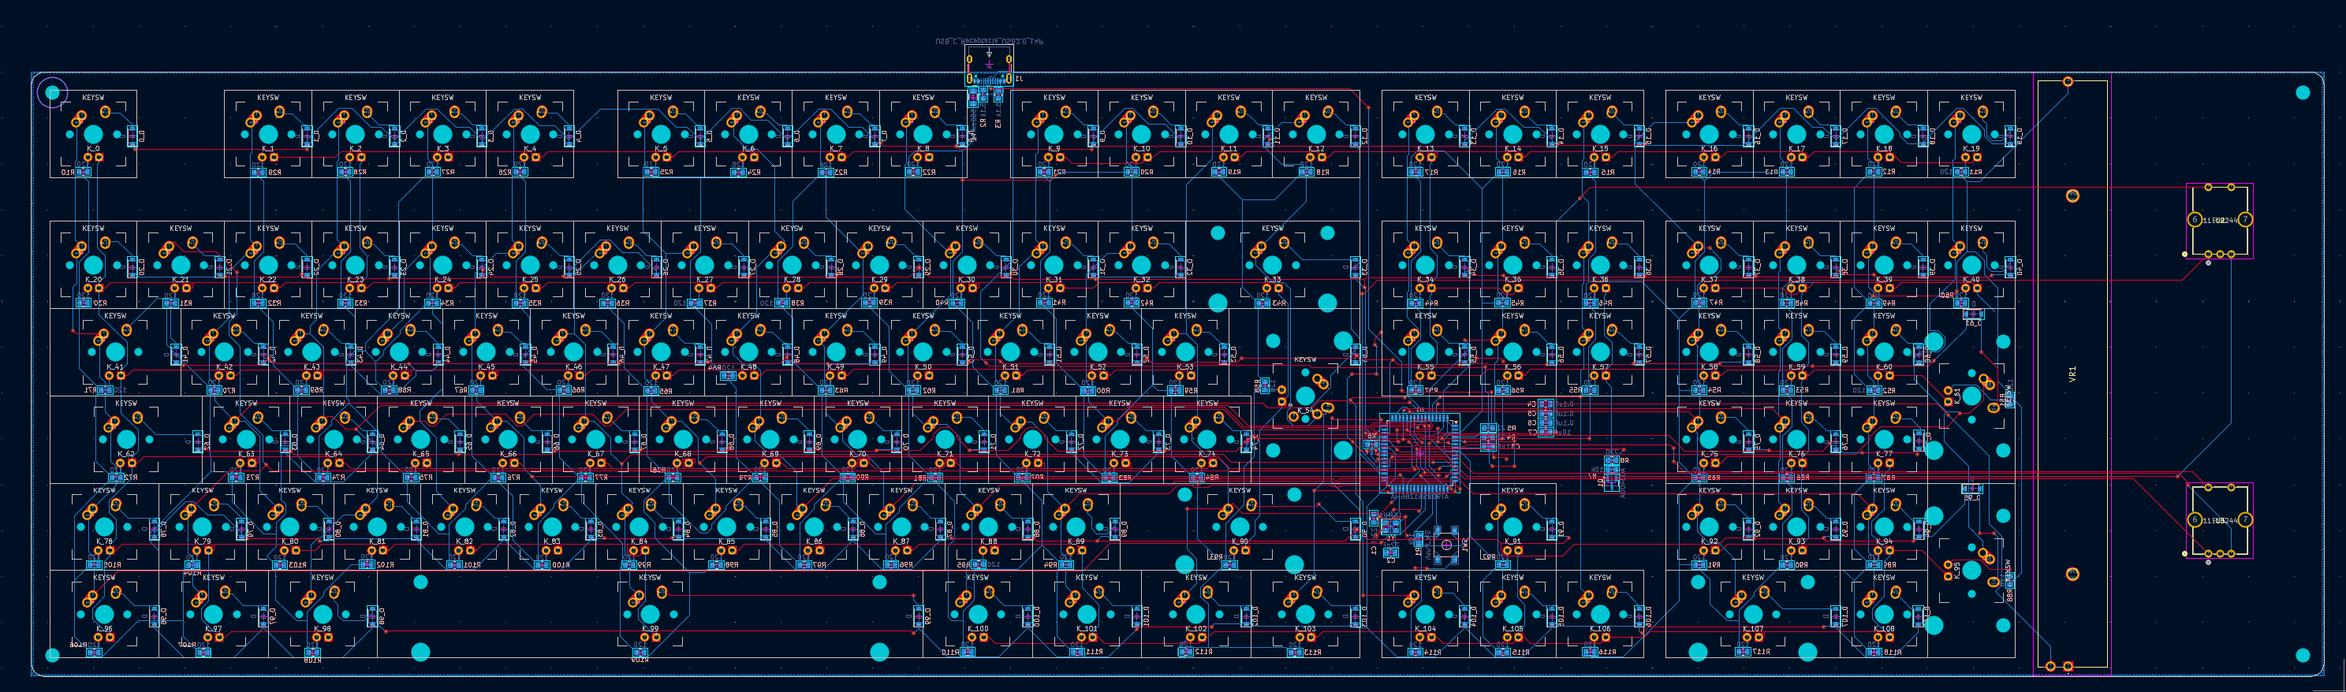
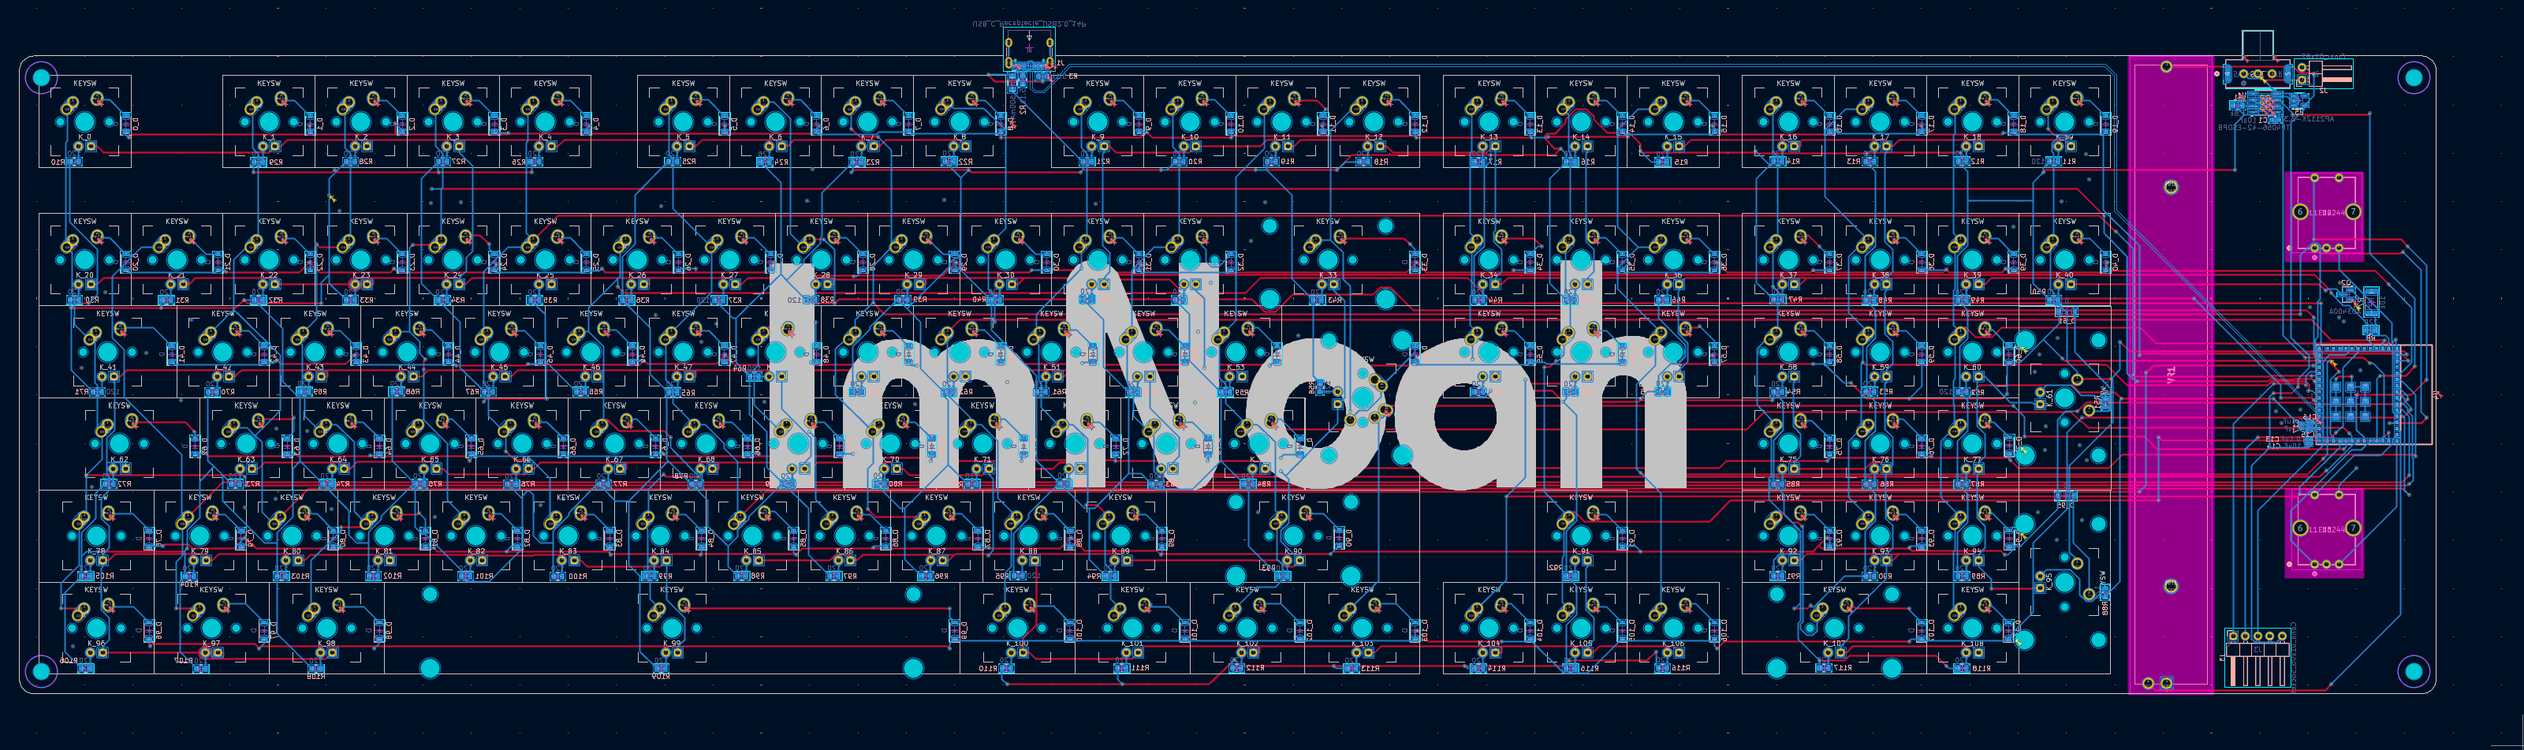
Update PCB

diff --git a/README.md b/README.md
@@ -20,35 +20,37 @@ QMK firmware + configuration must be flashed using the macpad.hex file. The rese
 
 ## BOM
 
-| Item name         | Item price | Item use                                               | URL                                                                   |
-| ----------------- | ---------- | ------------------------------------------------------ | --------------------------------------------------------------------- |
-| PCB               | $34        | PCB manufacture                                        | jlcpcb.com                                                            |
-| PCB components    | $23.93     | Assemble controller on keyboard + rotary encoder/fader | jlcpcb.com                                                            |
-| PCB Assembly      | $30        | Assemble PCB                                           | jlcpcb.com                                                            |
-| Keyboard switches | $30        | Make the keyboard keyboard                             | [Keyswitches](https://www.keychron.uk/products/keychron-super-switch) |
-| Black fillament   | $24        | Print the case                                         | https://uk.store.bambulab.com/products/petg-hf?id=42010450329660      |
-| Total:            | $141.93    |                                                        |                                                                       |
+| Item name         | Item price | Item use                                               | URL                                                                    |
+| ----------------- | ---------- | ------------------------------------------------------ | ---------------------------------------------------------------------- |
+| PCB               | $34        | PCB manufacture                                        | jlcpcb.com                                                             |
+| PCB components    | $13        | Assemble controller on keyboard + rotary encoder/fader | jlcpcb.com                                                             |
+| PCB Assembly      | $30        | Assemble PCB                                           | jlcpcb.com                                                             |
+| Keyboard switches | $30        | Make the keyboard keyboard                             | [Keyswitches](https://www.keychron.uk/products/keychron-super-switch)  |
+| Black fillament   | $24        | Print the case                                         | https://uk.store.bambulab.com/products/petg-hf?id=42010450329660       |
+| Battery           | $10.78     | Battery power                                          | https://www.amazon.co.uk/EEMB-Battery-rechargeable-Connector-Certified |
+| Total:            | $142.71    |                                                        |                                                                        |
 
 ## PCB component breakdown
 
-| Designator                                                                                           | Quantity | Value                       | Footprint                               | Package | MPN                | DNP | Mount_Type | Description                                                                            | Price    | Total    | URL                                                                       |
-| ---------------------------------------------------------------------------------------------------- | -------- | --------------------------- | --------------------------------------- | ------- | ------------------ | --- | ---------- | -------------------------------------------------------------------------------------- | -------- | -------- | ------------------------------------------------------------------------- |
-| C1, C2                                                                                               | 2        | 22pF                        | C_0805_2012Metric                       |         |                    |     | smt        |                                                                                        | $0.0011  | $0.0022  | https://jlcpcb.com/partdetail/1907-0402CG220J500NT/C1555                  |
-| C3                                                                                                   | 1        | 1uF                         | C_0805_2012Metric                       |         |                    |     | smt        |                                                                                        | $0.0032  | $0.0064  | https://jlcpcb.com/partdetail/1944-CL10A105KO8NNNC/C1592                  |
-| C4, C5, C6                                                                                           | 3        | 0.1uF                       | C_0805_2012Metric                       |         |                    |     | smt        |                                                                                        | $0.0011  | $0.0033  | https://jlcpcb.com/partdetail/1877-CL05B104KO5NNNC/C1525                  |
-| C7                                                                                                   | 1        | 10uF                        | C_0805_2012Metric                       |         |                    |     | smt        |                                                                                        | $0.0028  | $0.0028  | https://jlcpcb.com/partdetail/2043-CL10A106MQ8NNNC/C1691                  |
-| D_0, D_1, D_10, D_100, D_101, D_102, D_103, D_104, D_105, D_106, D_107, D_108, D_11, D_12, D_13, D_14, D_15, D_16, D_17, D_18, D_19, D_2, D_20, D_21, D_22, D_23, D_24, D_25, D_26, D_27, D_28, D_29, D_3, D_30, D_31, D_32, D_33, D_34, D_35, D_36, D_37, D_38, D_39, D_4, D_40, D_41, D_42, D_43, D_44, D_45, D_46, D_47, D_48, D_49, D_5, D_50, D_51, D_52, D_53, D_54, D_55, D_56, D_57, D_58, D_59, D_6, D_60, D_61, D_62, D_63, D_64, D_65, D_66, D_67, D_68, D_69, D_7, D_70, D_71, D_72, D_73, D_74, D_75, D_76, D_77, D_78, D_79, D_8, D_80, D_81, D_82, D_83, D_84, D_85, D_86, D_87, D_88, D_89, D_9, D_90, D_91, D_92, D_93, D_94, D_95, D_96, D_97, D_98, D_99 | 109      | D                           | D_SOD-123                               |         |                    |     | smt        |                                                                                        | $0.0052  | $0.57    | https://jlcpcb.com/partdetail/Shunye-ES1D_SOD_123FL/C7370889              |
-| F1                                                                                                   | 1        | 500mA                       | Fuse_1206_3216Metric                    |         |                    |     | smt        |                                                                                        | $0.0365  | $0.0365  | https://jlcpcb.com/partdetail/JlcpcbAssembly-FUSE/C9900021114             |
-| J1                                                                                                   | 1        | USB_C_Receptacle_USB2.0_14P | USB_C_Receptacle_HCTL_HC-TYPE-C-16P-01A |         |                    |     | smt        | USB 2.0-only 14P Type-C Receptacle connector                                           | $0.0365  | $0.0365  | https://jlcpcb.com/partdetail/JlcpcbAssembly-14P/C9900117666              |
-| Q1                                                                                                   | 1        | AO3400A                     | SOT-23                                  |         |                    |     | smt        | 30V Vds, 5.7A Id, N-Channel MOSFET, SOT-23                                             | $0.0428  | $0.0428  | https://jlcpcb.com/partdetail/Alpha_OmegaSemicon-AO3400A/C20917           |
-| R1, R6, R7                                                                                           | 3        | 10k                         | R_0805_2012Metric                       |         |                    |     | smt        | Resistor                                                                               | $0.0013  | $0.0039  | https://jlcpcb.com/partdetail/1841-1206W4J0103T5E/C1489                   |
-| R10, R100, R101, R102, R103, R104, R105, R106, R107, R108, R109, R11, R110, R111, R112, R113, R114, R115, R116, R117, R118, R12, R13, R14, R15, R16, R17, R18, R19, R20, R21, R22, R23, R24, R25, R26, R27, R28, R29, R30, R31, R32, R33, R34, R35, R36, R37, R38, R39, R40, R41, R42, R43, R44, R45, R46, R47, R48, R49, R50, R51, R52, R53, R54, R55, R56, R57, R58, R59, R60, R61, R62, R63, R64, R65, R66, R67, R68, R69, R70, R71, R72, R73, R74, R75, R76, R77, R78, R79, R80, R81, R82, R83, R84, R85, R86, R87, R88, R89, R90, R91, R92, R93, R94, R95, R96, R97, R98, R99 | 109      | 120                         | R_0805_2012Metric                       |         |                    |     | smt        | Resistor                                                                               | $0.0008  | $0.0872  | https://jlcpcb.com/partdetail/23514-0603WAF1200T5E/C22787                 |
-| R2, R3                                                                                               | 2        | 5.1k                        | R_0805_2012Metric                       |         |                    |     | smt        |                                                                                        | $0.0007  | $0.0014  | https://jlcpcb.com/partdetail/Yageo-RC0603JR075K1L/C14677                 |
-| R4, R5                                                                                               | 2        | 22                          | R_0805_2012Metric                       |         |                    |     | smt        |                                                                                        | $0.0005  | $0.001   | https://jlcpcb.com/partdetail/1555-0603WAJ0220T5E/C1203                   |
-| R8                                                                                                   | 1        | 220                         | R_0805_2012Metric                       |         |                    |     | smt        | Resistor                                                                               | $0.0004  | $0.0004  | https://jlcpcb.com/partdetail/1463-RC02W221JT/C1111                       |
-| SW1                                                                                                  | 1        | SW_Push                     | SKQG-1155865                            |         |                    |     | smt        |                                                                                        | $0.2385  | $0.2385  | https://jlcpcb.com/partdetail/Panasonic-EVQQ2B03W/C79178                  |
-| U1                                                                                                   | 1        | AT90USB1286-A               | TQFP-64_14x14mm_P0.8mm                  |         |                    |     | smt        |                                                                                        | $13.3845 | $13.3845 | https://jlcpcb.com/partdetail/MicrochipTech-AT90USB1286AU/C619147         |
-| U2, U3                                                                                               | 2        | EC11E18244A5                | EC11E18244A5_ALPS                       |         |                    |     | tht        |                                                                                        | $1.9785  | $3.96    | https://jlcpcb.com/partdetail/Alpsalpine-EC11E18244A5/C255515             |
-| VR1                                                                                                  | 1        | PTB0143-2010BPB103          | PTB01432010BPB103                       |         | PTB0143-2010BPB103 |     | tht        | Bourns PTB0143-2010BPB103 1 Gang Slide Carbon Potentiometer, 10k, +/-20%, 0.5W, Linear | $5.5140  | $5.5140  | https://jlcpcb.com/partdetail/Bourns-PTB01432010BPB103/C17183742          |
-| Y1                                                                                                   | 1        | 16MHz                       | Crystal_SMD_3225-4Pin_3.2x2.5mm         |         |                    |     | smt        |                                                                                        | $0.0356  | $0.0356  | https://jlcpcb.com/partdetail/Yxc_CrystalOscillators-X322516MOB4SI/C12668 |
-|                                                                                                      |          |                             |                                         |         |                    |     |            |                                                                                        | Total:   | $23.93   |                                                                           |
+| Designator                                                                                           | Quantity | Value                       | Footprint                               | Package | MPN                | DNP | Mount_Type | Description                                                                            | Price   | Total   | URL                                                                       |
+| ---------------------------------------------------------------------------------------------------- | -------- | --------------------------- | --------------------------------------- | ------- | ------------------ | --- | ---------- | -------------------------------------------------------------------------------------- | ------- | ------- | ------------------------------------------------------------------------- |
+| C1, C2                                                                                               | 2        | 22pF                        | C_0805_2012Metric                       |         |                    |     | smt        |                                                                                        | $0.0011 | $0.0022 | https://jlcpcb.com/partdetail/1907-0402CG220J500NT/C1555                  |
+| C3                                                                                                   | 1        | 1uF                         | C_0805_2012Metric                       |         |                    |     | smt        |                                                                                        | $0.0032 | $0.0064 | https://jlcpcb.com/partdetail/1944-CL10A105KO8NNNC/C1592                  |
+| C4, C5, C6                                                                                           | 3        | 0.1uF                       | C_0805_2012Metric                       |         |                    |     | smt        |                                                                                        | $0.0011 | $0.0033 | https://jlcpcb.com/partdetail/1877-CL05B104KO5NNNC/C1525                  |
+| C7                                                                                                   | 1        | 10uF                        | C_0805_2012Metric                       |         |                    |     | smt        |                                                                                        | $0.0028 | $0.0028 | https://jlcpcb.com/partdetail/2043-CL10A106MQ8NNNC/C1691                  |
+| D_0, D_1, D_10, D_100, D_101, D_102, D_103, D_104, D_105, D_106, D_107, D_108, D_11, D_12, D_13, D_14, D_15, D_16, D_17, D_18, D_19, D_2, D_20, D_21, D_22, D_23, D_24, D_25, D_26, D_27, D_28, D_29, D_3, D_30, D_31, D_32, D_33, D_34, D_35, D_36, D_37, D_38, D_39, D_4, D_40, D_41, D_42, D_43, D_44, D_45, D_46, D_47, D_48, D_49, D_5, D_50, D_51, D_52, D_53, D_54, D_55, D_56, D_57, D_58, D_59, D_6, D_60, D_61, D_62, D_63, D_64, D_65, D_66, D_67, D_68, D_69, D_7, D_70, D_71, D_72, D_73, D_74, D_75, D_76, D_77, D_78, D_79, D_8, D_80, D_81, D_82, D_83, D_84, D_85, D_86, D_87, D_88, D_89, D_9, D_90, D_91, D_92, D_93, D_94, D_95, D_96, D_97, D_98, D_99 | 109      | D                           | D_SOD-123                               |         |                    |     | smt        |                                                                                        | $0.0052 | $0.57   | https://jlcpcb.com/partdetail/Shunye-ES1D_SOD_123FL/C7370889              |
+| F1                                                                                                   | 1        | 500mA                       | Fuse_1206_3216Metric                    |         |                    |     | smt        |                                                                                        | $0.0365 | $0.0365 | https://jlcpcb.com/partdetail/JlcpcbAssembly-FUSE/C9900021114             |
+| J1                                                                                                   | 1        | USB_C_Receptacle_USB2.0_14P | USB_C_Receptacle_HCTL_HC-TYPE-C-16P-01A |         |                    |     | smt        | USB 2.0-only 14P Type-C Receptacle connector                                           | $0.0365 | $0.0365 | https://jlcpcb.com/partdetail/JlcpcbAssembly-14P/C9900117666              |
+| Q1                                                                                                   | 1        | AO3400A                     | SOT-23                                  |         |                    |     | smt        | 30V Vds, 5.7A Id, N-Channel MOSFET, SOT-23                                             | $0.0428 | $0.0428 | https://jlcpcb.com/partdetail/Alpha_OmegaSemicon-AO3400A/C20917           |
+| R1, R6, R7                                                                                           | 3        | 10k                         | R_0805_2012Metric                       |         |                    |     | smt        | Resistor                                                                               | $0.0013 | $0.0039 | https://jlcpcb.com/partdetail/1841-1206W4J0103T5E/C1489                   |
+| R10, R100, R101, R102, R103, R104, R105, R106, R107, R108, R109, R11, R110, R111, R112, R113, R114, R115, R116, R117, R118, R12, R13, R14, R15, R16, R17, R18, R19, R20, R21, R22, R23, R24, R25, R26, R27, R28, R29, R30, R31, R32, R33, R34, R35, R36, R37, R38, R39, R40, R41, R42, R43, R44, R45, R46, R47, R48, R49, R50, R51, R52, R53, R54, R55, R56, R57, R58, R59, R60, R61, R62, R63, R64, R65, R66, R67, R68, R69, R70, R71, R72, R73, R74, R75, R76, R77, R78, R79, R80, R81, R82, R83, R84, R85, R86, R87, R88, R89, R90, R91, R92, R93, R94, R95, R96, R97, R98, R99 | 109      | 120                         | R_0805_2012Metric                       |         |                    |     | smt        | Resistor                                                                               | $0.0008 | $0.0872 | https://jlcpcb.com/partdetail/23514-0603WAF1200T5E/C22787                 |
+| R2, R3                                                                                               | 2        | 5.1k                        | R_0805_2012Metric                       |         |                    |     | smt        |                                                                                        | $0.0007 | $0.0014 | https://jlcpcb.com/partdetail/Yageo-RC0603JR075K1L/C14677                 |
+| R4, R5                                                                                               | 2        | 22                          | R_0805_2012Metric                       |         |                    |     | smt        |                                                                                        | $0.0005 | $0.001  | https://jlcpcb.com/partdetail/1555-0603WAJ0220T5E/C1203                   |
+| R8                                                                                                   | 1        | 220                         | R_0805_2012Metric                       |         |                    |     | smt        | Resistor                                                                               | $0.0004 | $0.0004 | https://jlcpcb.com/partdetail/1463-RC02W221JT/C1111                       |
+| SW1                                                                                                  | 1        | SW_Push                     | SKQG-1155865                            |         |                    |     | smt        |                                                                                        | $0.2385 | $0.2385 | https://jlcpcb.com/partdetail/Panasonic-EVQQ2B03W/C79178                  |
+| U1                                                                                                   | 1        | RF-BM-ND06                  |                                         |         |                    |     | smt        |                                                                                        | $5      | $5      | https://jlcpcb.com/partdetail/rfstar-RF_BMND06/C5125838                   |
+| U2, U3                                                                                               | 2        | EC11E18244A5                | EC11E18244A5_ALPS                       |         |                    |     | tht        |                                                                                        | $1.9785 | $3.96   | https://jlcpcb.com/partdetail/Alpsalpine-EC11E18244A5/C255515             |
+| VR1                                                                                                  | 1        | PTB0143-2010BPB103          | PTB01432010BPB103                       |         | PTB0143-2010BPB103 |     | tht        | Bourns PTB0143-2010BPB103 1 Gang Slide Carbon Potentiometer, 10k, +/-20%, 0.5W, Linear | $5.5140 | $5.5140 | https://jlcpcb.com/partdetail/Bourns-PTB01432010BPB103/C17183742          |
+| Y1                                                                                                   | 1        | 16MHz                       | Crystal_SMD_3225-4Pin_3.2x2.5mm         |         |                    |     | smt        |                                                                                        | $0.0356 | $0.0356 | https://jlcpcb.com/partdetail/Yxc_CrystalOscillators-X322516MOB4SI/C12668 |
+|                                                                                                      |          |                             |                                         |         |                    |     |            |                                                                                        | Total:  | $23.93  |                                                                           |
+

diff --git a/JOURNAL.md b/JOURNAL.md
@@ -1,4 +1,4 @@
-Total Hours: 21.5
+Total Hours: 22.5
 
 ##  Initial layout (2 hours)
 
@@ -97,10 +97,14 @@ I have also added a TP4056 battery controller and a 3.3v regulator for battery p
 
 ![image.png](/PCB/Images/image-12.png)
 
-
-
 ## Attempt 3 (2 hours)
 
 Unfortunately i was unable to route the antenna circuitry without printing the board to perform initial tests so i am instead using a RF-BM-ND06 System on board. This makes my design more simple and more reliable. My schamtic now has bluetooth and battery power implimented.
 
 ![image.png](/PCB/Images/image-13.png)
+
+
+
+## Routing (1 hour)
+
+![image.png](/PCB/Images/image-14.png)
